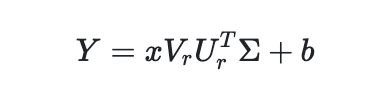
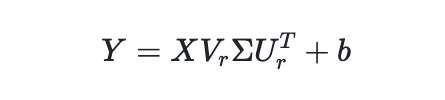
Add small changes in README.md and preseentation

Changed region(s): [[0.1865, 0.3, 0.8394, 0.69]]

diff --git a/README.md b/README.md
@@ -48,9 +48,11 @@ where $\text{clip}(x, l, u)$ is defined as:
 
 ## Singlular Value Decomposition
 
-Suppose we perform the matrix multiplication $Y = XW + b$, where $X \in \mathbb{R}^{m \times p}$, $W \in \mathbb{R}^{p \times n}$, and $b \in \mathbb{R}^n$ resulting in $Y \in \mathbb{R}^{m \times n}$. \
-We can decompose $W = U \Sigma V^T$, where $U \in \mathbb{R}^{p \times p}$ and $V \in \mathbb{R}^{n \times n}$ are orthogonal matrices. \
-$\Sigma$ is a matrix of singular values. We consider only $r < min(p, n)$ singular values to reconstruct matrix $W =>$ $U_r = \mathbb{R}^{p \times r}$, $V_r \in \mathbb{R}^{n \times r}$ and $\Sigma \in \mathbb{R}_+^{r \times r}$. \
+Suppose we perform the matrix multiplication $Y = XW^T + b$, where $X \in \mathbb{R}^{m \times p}$, $W \in \mathbb{R}^{n \times p}$, and $b \in \mathbb{R}^n$ resulting in $Y \in \mathbb{R}^{m \times n}$. \
+We can decompose $W = U \Sigma V^T$, where $U \in \mathbb{R}^{n \times n}$ and $V \in \mathbb{R}^{p \times p}$ are orthogonal matrices. \
+$\Sigma$ is a matrix of singular values. We consider only $r < min(p, n)$ singular values to reconstruct matrix $W =>$ $U_r = \mathbb{R}^{n \times r}$, $V_r \in \mathbb{R}^{p \times r}$ and $\Sigma \in \mathbb{R}_+^{r \times r}$. 
+We transpose matrix of weights. Thus, $W^T \in \mathbb{R}^{p \times n}$.
+
 In this case we can rewrite $Y$ as:
 <p align="center">
     <img src="./imgs/svd.png" width="40%" />
